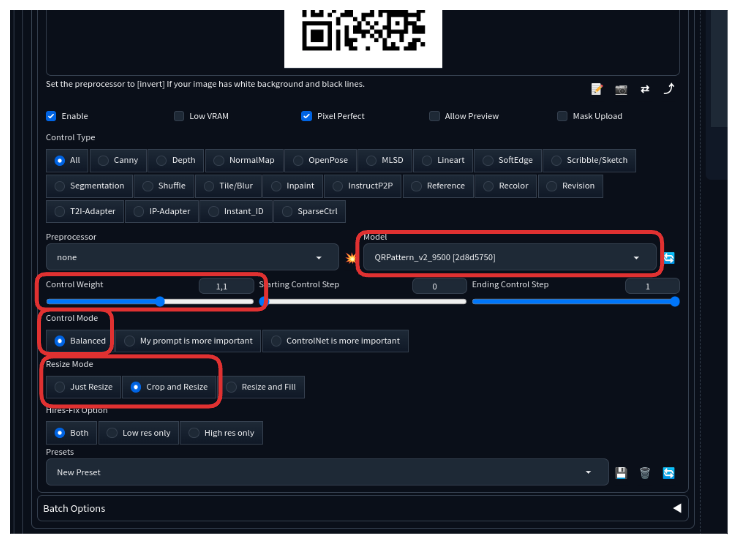
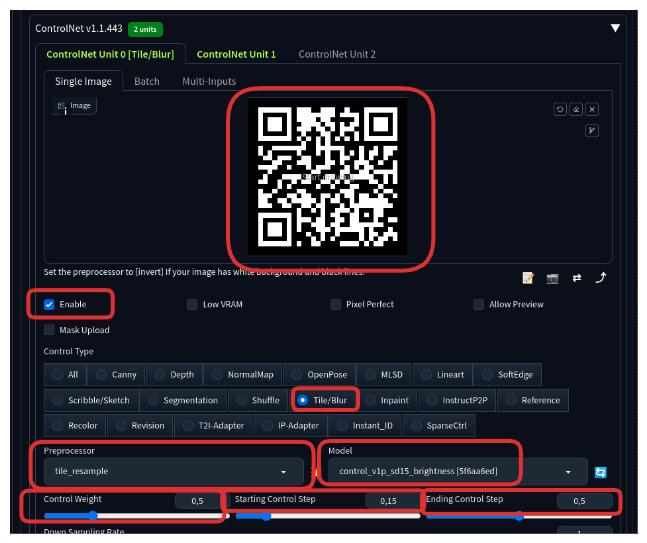
refactor exercise 03 lesson 14

diff --git a/Lesson-14/project/03-Generate-QRCode.md b/Lesson-14/project/03-Generate-QRCode.md
@@ -1,67 +1,86 @@
 # Generating a QRCode with a ControlNet
 
-1. Download an anime model to use as Stable Diffusion checkpoint
+1. Download a model to use as Stable Diffusion checkpoint
 
-   * Download `Anything v5` model [here](https://civitai.com/api/download/models/30163)
+   * Download `Ghostmix` model [here](https://civitai.com/api/download/models/76907?type=Model&format=SafeTensor&size=pruned&fp=fp16)
   
    * Put the downloaded file in your models folder located at `stable-diffusion-webui/models/Stable-diffusion`
   
-2. Download the QR code control model
+2. Download the Brightness Control model
 
-   * Download the QR code control model [here](https://huggingface.co/Nacholmo/controlnet-qr-pattern-v2/tree/main/automatic1111) by clicking on the download icon of the file finished in `.safetensors`
+   * Download the Brightness Control model [here](https://huggingface.co/ioclab/ioc-controlnet/resolve/main/models/control_v1p_sd15_brightness.safetensors)
   
    * Put the downloaded file in ControlNet models folder located at `stable-diffusion-webui/extensions/sd-webui-controlnet/models`
 
-   * ![qr code model](../project/images/image0.png)
-
 3. Select the model and enter the text-to-image setting
 
-   * Click on the refresh icon and then select `Anything v5`, it will set the model that we downloaded in step 1 as the `Stable Diffusion checkpoint`
+   * Click on the refresh icon and then select `Ghostmix`, it will set the model that we downloaded in step 1 as the `Stable Diffusion checkpoint`
      
-   * Use `Japanese painting, mountains, 1girl` as the prompt and `ugly, disfigured, low quality, blurry, nsfw` as the negative prompt
+   * Use `a cubism painting of a town with a lot of houses in the snow with a sky background, Andreas Rocha, matte painting concept art, a detailed matte painting, blurry, blurry_background, blurry_foreground, depth_of_field` as the prompt and `ugly, disfigured, low quality, nsfw` as the negative prompt
 
    * ![txt2img settings](../project/images/image1.png)
 
 4. Generate a QR code
 
-   * Generate a QR code using the default options of this [site](https://www.qr-code-generator.com/)
+   * Generate a QR code using this [site](https://www.qrcode-monkey.com/). Prefer using a white foreground and black background to create a more beautiful image.
+
+   * ![qr code](../project/images/image2.png)
   
 5. Use the following settings in the `Generation` tab:
 
-   * Sampling Method: DPM++ 2M Karras
-   * Sampling Step: 20
-   * Hires Fix: On – Upscaler: Latent. Upscale by 2. Denoising strength: 0.7
+   * Sampling Method: Euler a
+   * Sampling Steps: 20
    * Width: 512
    * Height: 512
    * CFG Scale: 7
-   * ![generation settings](../project/images/image2.png)
+   * ![generation settings](../project/images/image3.png)
   
-6. Upload the QR code image
+6. Configure ControlNet unit 0
 
    * On the text2img page, expand the ControlNet section. You should see an empty image canvas under ControlNet Unit 0 > Single Image.
 
    * Upload the QR code to the Image Canvas
   
-   * Mark the `Enable` and `Pixel perfect` checkboxes
+   * Mark the `Enable` checkbox
 
-   * ![qr code upload](../project/images/image3.png)
+   * Use the following settings:
 
-7. Use the following settings in the same `ControlNet` tab that you uploaded the QR code image:
+      * Control Type: Tile/Blur
 
-   * ControlNet Model: QRPattern_v2_9500 [2d8d5750]
-   * Control Weight: 1.1 (This needs to be adjusted for each prompt)
-   * Control Mode: Balanced
-   * Resize Mode: Crop and Resize
-   * ![controlnet settings](../project/images/image4.png)
+      * Preprocessor: Tile resample
+
+      * ControlNet Model: Control_v1p_sd15_brightness [5f6aa6ed]
+
+      * Control Weight: 0.5
+
+      * Starting Control Step: 0.15
+
+      * Ending Control Step: 0.5
+
+      * ![controlnet unit 0](../project/images/image4.png)
+
+7. Configure ControlNet unit 1
+
+   * Upload the QR code to the Image Canvas
+  
+   * Mark the `Enable` checkbox
+
+   * Use the following settings:
+
+      * Preprocessor: Inpaint_global_harmonious
+
+      * ControlNet Model: Control_v1p_sd15_brightness [5f6aa6ed]
+
+      * Control Weight: 0.5
+
+      * Starting Control Step: 0.5
+
+      * Ending Control Step: 0.9
+
+      * ![controlnet unit1](../project/images/image5.png)
   
 8. Press the generate button and see the result
 
-9. Experiment by changing:
+      * Example:
 
-   * Prompts
-
-   * Cfg: How many times to improve the generated image iteratively; higher values take longer; very low values can produce bad results
-
-   * Samples steps: How strongly the image should conform the prompt - lower values produce more creative results
-
-   * ![example](../project/images/example.png)
+      * ![example](../project/images/example.png)
